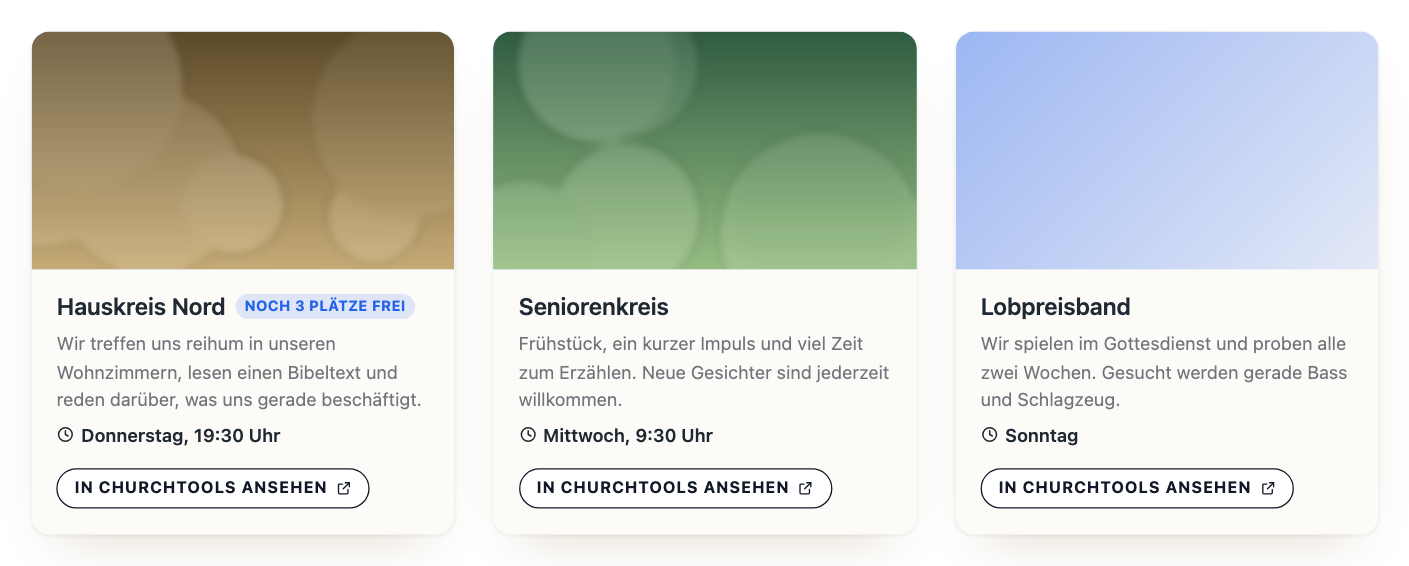
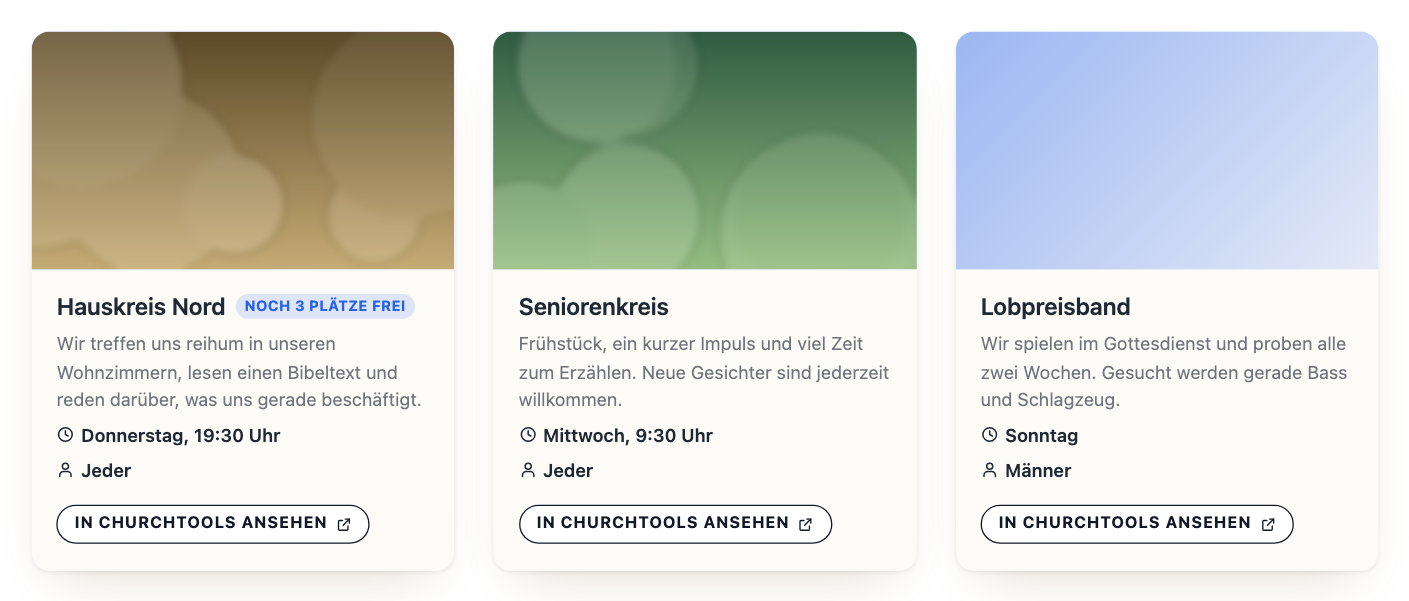
Gruppen: Zielgruppe als Angabezeile mit Personensymbol
information.targetGroup wurde nicht übernommen. Die Zielgruppe steht jetzt
wie die Treffzeit als eigene Zeile mit Symbol, direkt darunter, in Raster
und hervorgehobener Ansicht; ausblendbar mit dem Kalendernamen. Gruppen
ohne Zielgruppe in ChurchTools bekommen keine Zeile.

Doku, Hilfetext und Gruppen-Screenshots nachgezogen.

diff --git a/assets/css/frontend.css b/assets/css/frontend.css
@@ -1044,6 +1044,15 @@
     order: var(--ctp-order-location);
 }
 
+/*
+ * Zielgruppe einer Gruppenkachel: keine eigene Position im Design-Tab, sie
+ * haengt an der Uhrzeit. Gleiche Ordnungszahl, und im Markup steht sie danach -
+ * so bleibt sie direkt unter der Treffzeit, wohin diese auch gezogen wird.
+ */
+.ctp-events__meta-item--target-group {
+    order: var(--ctp-order-time);
+}
+
 @media (max-width: 480px) {
     .ctp-events__item {
         align-items: flex-start;

diff --git a/tests/Frontend/GroupListRendererTest.php b/tests/Frontend/GroupListRendererTest.php
@@ -75,10 +75,26 @@ final class GroupListRendererTest extends TestCase
 
     public function testHiddenElementsOfTheDesignTabApply(): void
     {
-        $group = GroupListRenderer::prepareGroups([$this->group(44, '')], [], ['time', 'excerpt'])[0];
+        $group = GroupListRenderer::prepareGroups([$this->group(44, '')], [], ['time', 'excerpt', 'calendar'])[0];
 
         $this->assertSame('', $group['schedule']);
         $this->assertSame('', $group['excerpt']);
+        $this->assertSame('', $group['target_group_label']);
+    }
+
+    /**
+     * Die Zielgruppe steht als Angabezeile unter der Treffzeit - auch
+     * „Jeder". Gruppen ohne Zielgruppe in ChurchTools und
+     * Gruppen aus einem aelteren Abgleich bekommen keine Zeile.
+     */
+    public function testTheTargetGroupIsShownWhereChurchToolsHasOne(): void
+    {
+        $older = $this->group(514, '');
+        unset($older['target_group']);
+
+        $prepared = GroupListRenderer::prepareGroups([$this->group(44, ''), $older], []);
+
+        $this->assertSame(['Jeder', ''], array_column($prepared, 'target_group_label'));
     }
 
     public function testRenderLinksEachCardToThePublicGroupAndEscapes(): void
@@ -100,6 +116,8 @@ final class GroupListRendererTest extends TestCase
         $this->assertStringContainsString('Wine &lt;b&gt;&amp;&lt;/b&gt; Dine', $html);
         $this->assertStringContainsString('Noch 3 Plätze frei', $html);
         $this->assertStringContainsString('Donnerstag, 19:30 Uhr', $html);
+        $this->assertMatchesRegularExpression('#meta-item--time">.*?Donnerstag, 19:30 Uhr\s*</span>\s*<span class="ctp-events__meta-item ctp-events__meta-item--target-group">\s*<svg [^>]*>.*?</svg>\s*Jeder\s*</span>#s', $html);
+        $this->assertStringNotContainsString('ctp-events__eyebrow', $html);
         $this->assertStringContainsString('--ctp-columns:6;', $html, 'Spalten wie bei den Terminen auf 2 bis 6 begrenzt.');
         $this->assertStringNotContainsString('ctp-events__media', $html);
     }
@@ -183,6 +201,7 @@ final class GroupListRendererTest extends TestCase
         $this->assertStringContainsString('ctp-groups__feature ', $html);
         $this->assertStringNotContainsString('--ctp-columns', $html);
         $this->assertStringContainsString('class="ctp-events__cta ctp-button"', $html);
+        $this->assertMatchesRegularExpression('#meta-item--target-group">\s*<svg [^>]*>.*?</svg>\s*Jeder\s*</span>#s', $html);
     }
 
     public function testAnUnknownLayoutFallsBackToTheGrid(): void
@@ -209,6 +228,7 @@ final class GroupListRendererTest extends TestCase
             'image_url' => $imageUrl,
             'weekday' => 'Donnerstag',
             'meeting_time' => '19:30 Uhr',
+            'target_group' => 'Jeder',
             'max_members' => null,
             'free_places' => null,
             'waitinglist' => false,

diff --git a/bin/demo-screenshots.php b/bin/demo-screenshots.php
@@ -174,14 +174,15 @@ $abschnitte = [
 /*
  * Die Gruppenliste bekommt ihre Felder so, wie GroupListRenderer::prepareGroups()
  * sie ans Template reicht - ausgedachte Gruppen, eine davon ohne Bild, damit
- * die Farbflaeche zu sehen ist, die dann an die Stelle des Bildes tritt.
+ * die Farbflaeche zu sehen ist, die dann an die Stelle des Bildes tritt. Die
+ * Zielgruppen sind Werte, die ChurchTools zur Auswahl anbietet.
  */
 $gruppen = [];
 foreach ([
-    ['Hauskreis Nord', 'Donnerstag, 19:30 Uhr', 'bild-fruehstueck.jpg', 'Noch 3 Plätze frei', 'Wir treffen uns reihum in unseren Wohnzimmern, lesen einen Bibeltext und reden darüber, was uns gerade beschäftigt.'],
-    ['Seniorenkreis', 'Mittwoch, 9:30 Uhr', 'bild-fest.jpg', '', 'Frühstück, ein kurzer Impuls und viel Zeit zum Erzählen. Neue Gesichter sind jederzeit willkommen.'],
-    ['Lobpreisband', 'Sonntag', '', '', 'Wir spielen im Gottesdienst und proben alle zwei Wochen. Gesucht werden gerade Bass und Schlagzeug.'],
-] as $i => [$name, $zeit, $bild, $plaetze, $text]) {
+    ['Hauskreis Nord', 'Jeder', 'Donnerstag, 19:30 Uhr', 'bild-fruehstueck.jpg', 'Noch 3 Plätze frei', 'Wir treffen uns reihum in unseren Wohnzimmern, lesen einen Bibeltext und reden darüber, was uns gerade beschäftigt.'],
+    ['Seniorenkreis', 'Jeder', 'Mittwoch, 9:30 Uhr', 'bild-fest.jpg', '', 'Frühstück, ein kurzer Impuls und viel Zeit zum Erzählen. Neue Gesichter sind jederzeit willkommen.'],
+    ['Lobpreisband', 'Männer', 'Sonntag', '', '', 'Wir spielen im Gottesdienst und proben alle zwei Wochen. Gesucht werden gerade Bass und Schlagzeug.'],
+] as $i => [$name, $zielgruppe, $zeit, $bild, $plaetze, $text]) {
     $gruppen[] = [
         'id' => $i + 1,
         'name' => $name,
@@ -190,6 +191,7 @@ foreach ([
         'image_srcset' => '',
         'show_media' => true,
         'schedule' => $zeit,
+        'target_group_label' => $zielgruppe,
         'places_label' => $plaetze,
         'excerpt' => $text,
         'description_html' => '<p>' . $text . '</p>',

diff --git a/includes/Frontend/templates/group-grid.php b/includes/Frontend/templates/group-grid.php
@@ -7,7 +7,8 @@
  * Dieselben Klassen wie event-grid.php, damit die Einstellungen des Design-Tabs
  * greifen; `ctp-groups` steht zusaetzlich daneben, fuer eigene Regeln eines
  * Themes. Die Zusatzfelder jeder Gruppe (image_src, show_media, schedule,
- * places_label, excerpt) rechnet GroupListRenderer::prepareGroups() vor.
+ * places_label, excerpt, target_group_label) rechnet
+ * GroupListRenderer::prepareGroups() vor.
  *
  * Die Kachel ist nicht klickbar; nach ChurchTools fuehrt der Button darunter
  * (partials/group-cta.php, siehe GroupListRenderer).
@@ -62,6 +63,13 @@ if (!defined('ABSPATH')) {
                                     <?php // phpcs:ignore WordPress.Security.EscapeOutput.OutputNotEscaped -- Icons:: returns fixed, hard-coded SVG markup with no request input (see Icons.php docblock). ?>
                                     <?php echo Icons::clock(); ?>
                                     <?php echo esc_html($group['schedule']); ?>
+                                </span>
+                            <?php endif; ?>
+                            <?php if ($group['target_group_label'] !== '') : ?>
+                                <span class="ctp-events__meta-item ctp-events__meta-item--target-group">
+                                    <?php // phpcs:ignore WordPress.Security.EscapeOutput.OutputNotEscaped -- see above. ?>
+                                    <?php echo Icons::person(); ?>
+                                    <?php echo esc_html($group['target_group_label']); ?>
                                 </span>
                             <?php endif; ?>
                             <?php if ($group['excerpt'] !== '') : ?>

diff --git a/tests/Groups/GroupSyncTest.php b/tests/Groups/GroupSyncTest.php
@@ -90,6 +90,7 @@ final class GroupSyncTest extends TestCase
             'image_url' => 'https://musterkirche.church.tools/images/5123/abc?w=1600&h=1600&fit=max',
             'weekday' => 'Mittwoch',
             'meeting_time' => '9:30',
+            'target_group' => 'Jeder',
             'max_members' => 60,
             'free_places' => 52,
             'waitinglist' => false,
@@ -175,6 +176,7 @@ final class GroupSyncTest extends TestCase
         $this->assertSame('', $group['weekday']);
         $this->assertSame('', $group['meeting_time']);
         $this->assertSame('', $group['note']);
+        $this->assertSame('', $group['target_group']);
     }
 
     /**
@@ -196,7 +198,7 @@ final class GroupSyncTest extends TestCase
         $group = GroupSync::normalizeGroup($raw, self::BASE);
 
         $this->assertSame(
-            ['id', 'name', 'note', 'image_url', 'weekday', 'meeting_time', 'max_members', 'free_places', 'waitinglist', 'url'],
+            ['id', 'name', 'note', 'image_url', 'weekday', 'meeting_time', 'target_group', 'max_members', 'free_places', 'waitinglist', 'url'],
             array_keys($group)
         );
         $this->assertStringNotContainsString('Erika', (string) wp_json_encode($group));
@@ -453,6 +455,7 @@ final class GroupSyncTest extends TestCase
             'meetingTime' => '9:30',
             'weekday' => ['id' => 3, 'name' => 'wednesday', 'nameTranslated' => 'Mittwoch', 'sortKey' => 2],
             'note' => 'Treff am Mittwoch',
+            'targetGroup' => ['id' => 1, 'name' => 'everyone', 'nameTranslated' => 'Jeder', 'sortKey' => 1],
             'groupPlaces' => [],
         ];
 

diff --git a/includes/Frontend/GroupListRenderer.php b/includes/Frontend/GroupListRenderer.php
@@ -26,7 +26,10 @@ use ChurchToolsPlugin\Settings;
  * Die Kacheln tragen dieselben Klassen wie die der Termine, damit Vorlage,
  * Farben, Ecken, Bildformat und Reihenfolge aus dem Design-Tab ohne eigene
  * Einstellungen greifen. Von den ausblendbaren Feldern gelten die, die es an
- * einer Gruppe gibt: Bild, Uhrzeit (Wochentag und Treffzeit) und Auszug.
+ * einer Gruppe gibt: Bild, Uhrzeit (Wochentag und Treffzeit), Auszug - und
+ * „Kalendername" fuer die Zielgruppe. Die steht als Angabezeile mit
+ * Personensymbol unter der Treffzeit; ausgeblendet wird sie mit dem
+ * Kalendernamen, weil beide dasselbe sagen: in welche Sparte etwas gehoert.
  */
 final class GroupListRenderer
 {
@@ -154,6 +157,11 @@ final class GroupListRenderer
                 ? CardImage::srcsetFor($attachmentId, CardImage::CARD_MAX_SRCSET_WIDTH, CardImage::CARD_REFERENCE_SIZE)
                 : '';
             $group['schedule'] = in_array('time', $hiddenElements, true) ? '' : self::schedule($group);
+            // Gruppen aus einem Abgleich vor dieser Aenderung tragen das Feld noch
+            // nicht; bis zum naechsten Lauf bleibt die Zeile dann leer.
+            $group['target_group_label'] = in_array('calendar', $hiddenElements, true)
+                ? ''
+                : trim((string) ($group['target_group'] ?? ''));
             $group['places_label'] = self::placesLabel($group);
             $group['excerpt'] = in_array('excerpt', $hiddenElements, true) || (string) ($group['note'] ?? '') === ''
                 ? ''

diff --git a/includes/Frontend/templates/group-featured.php b/includes/Frontend/templates/group-featured.php
@@ -58,6 +58,13 @@ if (!defined('ABSPATH')) {
                                 <?php echo esc_html($group['schedule']); ?>
                             </span>
                         <?php endif; ?>
+                        <?php if ($group['target_group_label'] !== '') : ?>
+                            <span class="ctp-events__meta-item ctp-events__meta-item--target-group">
+                                <?php // phpcs:ignore WordPress.Security.EscapeOutput.OutputNotEscaped -- see above. ?>
+                                <?php echo Icons::person(); ?>
+                                <?php echo esc_html($group['target_group_label']); ?>
+                            </span>
+                        <?php endif; ?>
                         <?php if ($group['description_html'] !== '') : ?>
                             <div class="ctp-groups__feature-text">
                                 <?php // phpcs:ignore WordPress.Security.EscapeOutput.OutputNotEscaped -- EventFormatter::descriptionHtml() runs the raw value through wp_kses() with its own allowlist before adding any markup of its own (see its docblock). ?>

diff --git a/includes/Frontend/Icons.php b/includes/Frontend/Icons.php
@@ -38,6 +38,19 @@ final class Icons
             . '<circle cx="12" cy="10" r="2.75"></circle></svg>';
     }
 
+    /**
+     * Kopf und Schultern - fuer die Zielgruppe einer Gruppe („Jeder",
+     * „Familien"). Eine Person statt einer Gruppe von Personen: Die Zeile sagt,
+     * *fuer wen* die Gruppe ist, nicht, wie viele schon dabei sind.
+     */
+    public static function person(): string
+    {
+        return '<svg class="ctp-events__icon" viewBox="0 0 24 24" fill="none" stroke="currentColor" '
+            . 'stroke-width="2" stroke-linecap="round" stroke-linejoin="round" aria-hidden="true" focusable="false">'
+            . '<circle cx="12" cy="7.5" r="4"></circle>'
+            . '<path d="M4.5 21v-1.5a5 5 0 0 1 5-5h5a5 5 0 0 1 5 5V21"></path></svg>';
+    }
+
     public static function search(): string
     {
         return '<svg class="ctp-events__icon" viewBox="0 0 24 24" fill="none" stroke="currentColor" '

diff --git a/includes/Groups/GroupSync.php b/includes/Groups/GroupSync.php
@@ -279,6 +279,13 @@ final class GroupSync
                 ? trim((string) ($information['weekday']['nameTranslated'] ?? ''))
                 : '',
             'meeting_time' => trim((string) ($information['meetingTime'] ?? '')),
+            // „Jeder" ist eine gewaehlte Zielgruppe wie jede andere, keine
+            // Vorgabe: An der Referenzinstanz tragen 7 von 17 Gruppen gar
+            // keine (`null`, gelesen 2026-09-15). Die Zeile bleibt dann leer,
+            // statt „Jeder" zu unterstellen.
+            'target_group' => is_array($information['targetGroup'] ?? null)
+                ? trim((string) ($information['targetGroup']['nameTranslated'] ?? ''))
+                : '',
             'max_members' => $maxMembers > 0 ? $maxMembers : null,
             'free_places' => $maxMembers > 0 ? max(0, $maxMembers - $taken) : null,
             'waitinglist' => !empty($group['allowWaitinglist']),

diff --git a/includes/Admin/GroupsTab.php b/includes/Admin/GroupsTab.php
@@ -129,7 +129,7 @@ final class GroupsTab
                 SettingsPage::renderActionBar(
                     'ctp-fetch-group-homepages',
                     __('Homepages von ChurchTools laden', 'churchtools-plugin'),
-                    __('Nutzt den API-Key aus „Einstellungen → Verbindung“. Übernommen werden nur Name, Beschreibung, Treffzeit, Plätze und Bild – keine Leiter und keine Angaben über Personen.', 'churchtools-plugin')
+                    __('Nutzt den API-Key aus „Einstellungen → Verbindung“. Übernommen werden nur Name, Beschreibung, Treffzeit, Zielgruppe, Plätze und Bild – keine Leiter und keine Angaben über Personen.', 'churchtools-plugin')
                 );
                 ?>
 

diff --git a/plan.md b/plan.md
@@ -4,7 +4,7 @@ WordPress-Plugin, das Kalender-Events aus der ChurchTools API synchronisiert, lo
 
 ## Rahmendaten
 
-- **Aktueller Stand (2026-09-15)**: Version **1.29.3** veröffentlicht, seit dem 2026-08-19 im produktiven Einsatz auf der Zielseite. Die letzten Releases: 1.29.3 Gruppenbilder in voller Auflösung (2026-09-15), 1.29.2 Buttons mit gemeinsamem Farb- und Zustandssystem und einem Schutz gegen Link-Regeln des Themes (2026-09-15), 1.29.1 Platzhinweis „10+ Plätze frei“ (2026-09-15), 1.27.0 Sicherheit und Datenschutz (2026-09-14), 1.28.0 einzelne Gruppen, hervorgehobene Ansicht, Button nach ChurchTools (2026-09-14), 1.28.1 und 1.28.2 Nachbesserungen nach dem Test im echten WPBakery auf der Live-Seite (Gruppenauswahl als eigener Feldtyp, Umschalter „Welche Gruppen?“, Button gegen Uncode abgesichert), 1.29.0 Ankündigung von 2.0.0 (2026-09-15). Damit läuft die **Übergangszeit bis 2.0.0** (etwa vier bis sechs Wochen, siehe „Weg zu 2.0.0“). Offen: GitHub-Einstellungen aus Phase 0 des Review-Plans (beim Konto), Aufteilen der Reiter von `SettingsPage` (5.1), Update der Live-Seite (dort lief am 2026-09-15 noch 1.26.0) und danach ein Blick auf das Panel „Vorbereitung auf 2.0.0“. DB-Schema `1.8.0`, `composer test` grün (649 Tests), Integrationstests 10.
+- **Aktueller Stand (2026-09-15)**: Version **1.29.4** veröffentlicht, seit dem 2026-08-19 im produktiven Einsatz auf der Zielseite. Die letzten Releases: 1.29.4 Zielgruppe an den Gruppenkacheln (2026-09-15), 1.29.3 Gruppenbilder in voller Auflösung (2026-09-15), 1.29.2 Buttons mit gemeinsamem Farb- und Zustandssystem und einem Schutz gegen Link-Regeln des Themes (2026-09-15), 1.29.1 Platzhinweis „10+ Plätze frei“ (2026-09-15), 1.27.0 Sicherheit und Datenschutz (2026-09-14), 1.28.0 einzelne Gruppen, hervorgehobene Ansicht, Button nach ChurchTools (2026-09-14), 1.28.1 und 1.28.2 Nachbesserungen nach dem Test im echten WPBakery auf der Live-Seite (Gruppenauswahl als eigener Feldtyp, Umschalter „Welche Gruppen?“, Button gegen Uncode abgesichert), 1.29.0 Ankündigung von 2.0.0 (2026-09-15). Damit läuft die **Übergangszeit bis 2.0.0** (etwa vier bis sechs Wochen, siehe „Weg zu 2.0.0“). Offen: GitHub-Einstellungen aus Phase 0 des Review-Plans (beim Konto), Aufteilen der Reiter von `SettingsPage` (5.1), Update der Live-Seite (dort lief am 2026-09-15 noch 1.26.0) und danach ein Blick auf das Panel „Vorbereitung auf 2.0.0“. DB-Schema `1.8.0`, `composer test` grün (649 Tests), Integrationstests 10.
 - **Lizenz**: GPL-2.0-or-later
 - **Ziel-Instanz für Tests**: die produktive ChurchTools-Instanz der Gemeinde. **Es gibt kein ChurchTools-Testsystem** (festgehalten 2026-09-01) – jeder Versuch, der neue Daten *in* ChurchTools braucht, findet in der produktiven Instanz statt und ist für die Gemeinde sichtbar. Umkehrbare Versuche (ein Textfeld setzen und wieder leeren) sind dadurch billig, nicht umkehrbare (eine Anmeldegruppe anlegen, eine Gruppe veröffentlichen) teuer. Das ist bei jedem Feature zu prüfen, das ChurchTools-seitig gepflegte Daten voraussetzt. Name hier bewusst nicht genannt – dieses Repo ist öffentlich (siehe „Verteilung" unten); wer die Instanz braucht, findet sie in den Einstellungen der lokalen Testumgebung
 - **PHP**: 8.1+, **WordPress**: 6.4+
@@ -891,6 +891,15 @@ Nutzerbefund: „Die Bilder der Gruppen sind sehr pixelig. Bekommen wir die übe
 - **Umgesetzt und als 1.29.3 veröffentlicht (2026-09-15)**, direkt auf `main` wie 1.29.1: `GroupSync::sizedImageUrl()` hängt `w=1600&h=1600&fit=max` an (Konstante `IMAGE_QUERY`). 1600, weil WordPress höchstens `large` (1024) erzeugt und die Kachel-`srcset` bei 800 endet. Weil sich die Quelladresse ändert, holt der nächste Gruppen-Abgleich jedes Bild einmal neu und löscht das alte Vorschaubild – kein Migrationscode nötig.
 - **Nachgewiesen in der Testumgebung**: echter Abgleich gegen die Instanz, 15 Bilder neu (z. B. 1600×1067, Hochformat 1067×1600, kleine Originale bleiben bei 640), alte Anhänge gelöscht; zweiter Lauf lässt alles stehen. Auf der Gruppenseite bietet die `srcset` jetzt 300–768w, bei doppelter Pixeldichte wird 768w geladen.
 - *Nach dem Update auf der Live-Seite zu prüfen*: „Gruppen jetzt synchronisieren“, dann Seiten-Cache leeren; die Bilder sollten dort als WebP ankommen (GD mit WebP), lokal fehlt die Unterstützung und sie bleiben JPEG. Mit im Release: die gekürzte Beschreibung und Installation der readme.txt.
+
+### Zielgruppe an den Gruppenkacheln (2026-09-15)
+
+Nutzerbefund: „Die Zielgruppe, beispielsweise Jeder, wird nicht auf den Kacheln gezeigt.“ Nachgefragt: „analog der Tageszeit – ein Personenicon und Jeder bzw. andere Optionen nebendran.“
+
+- **Ursache**: `normalizeGroup()` übernahm `information.targetGroup` nicht.
+- **Gebaut**: Feld `target_group` (`nameTranslated`), in `prepareGroups()` als `target_group_label`; Angabezeile `ctp-events__meta-item--target-group` mit `Icons::person()` direkt hinter der Treffzeit, in Raster und hervorgehobener Ansicht. Keine eigene Position im Design-Tab: Die Zeile trägt `order: var(--ctp-order-time)` und folgt der Uhrzeit. Ausgeblendet wird sie mit „Kalendername“. Ein erster Entwurf als Überschrift über dem Namen (wie der Kalender bei Terminen) wurde auf Wunsch verworfen.
+- **Datenlage**: 7 von 17 Gruppen der Referenzinstanz haben keine Zielgruppe (`null`). Sie bekommen keine Zeile; „Jeder“ wird nicht unterstellt. Wer die Zeile überall will, trägt die Zielgruppe in ChurchTools nach.
+- **Veröffentlicht als 1.29.4 (2026-09-15)**, direkt auf `main`. *Nach dem Update auf der Live-Seite*: „Gruppen jetzt synchronisieren“ (gespeicherte Gruppen tragen das Feld noch nicht), dann Seiten-Cache leeren (neue CSS-Regel).
 
 ### Offene Kleinigkeiten im Frontend
 

diff --git a/docs/GRUPPEN.md b/docs/GRUPPEN.md
@@ -2,7 +2,7 @@
 
 Zurück zur [Übersicht](../README.md).
 
-Als Ersatz für den iframe einer Gruppen-Homepage: dieselben Gruppen, aber in der Optik des Plugins – mit Treffzeit, Auszug und, wo die Gruppe eine Höchstzahl hat, den freien Plätzen. Der Button „In ChurchTools ansehen“ führt zur Gruppe in ChurchTools, wo man sich anmeldet.
+Als Ersatz für den iframe einer Gruppen-Homepage: dieselben Gruppen, aber in der Optik des Plugins – mit Zielgruppe, Treffzeit, Auszug und, wo die Gruppe eine Höchstzahl hat, den freien Plätzen. Der Button „In ChurchTools ansehen“ führt zur Gruppe in ChurchTools, wo man sich anmeldet.
 
 Voraussetzung ist eine angehakte Homepage unter *ChurchTools → Gruppen → Homepages*, siehe [Einrichtung, Schritt 7](EINRICHTUNG.md#7-gruppen-zeigen-optional).
 
@@ -33,8 +33,8 @@ Unter *Gruppen → Homepages* steht neben jeder angehakten Homepage der passende
 
 ## Gut zu wissen
 
-- **ChurchTools entscheidet, was erscheint.** Es erscheinen die Gruppen, die die Homepage in ChurchTools öffentlich zeigt, Bilder nur, wo sie Gruppenbilder zeigt. Übernommen werden Name, Beschreibung, Treffzeit, Plätze und Bild – keine Leiter und nichts über Personen, auch wenn ChurchTools dem API-Key mehr mitschickt.
+- **ChurchTools entscheidet, was erscheint.** Es erscheinen die Gruppen, die die Homepage in ChurchTools öffentlich zeigt, Bilder nur, wo sie Gruppenbilder zeigt. Übernommen werden Name, Beschreibung, Treffzeit, Zielgruppe, Plätze und Bild – keine Leiter und nichts über Personen, auch wenn ChurchTools dem API-Key mehr mitschickt.
 - **Die freien Plätze sind so alt wie der letzte Abgleich.** Die Anmeldung in ChurchTools zeigt immer den echten Stand. Wer es genauer braucht, stellt das *Sync-Intervall* kürzer.
-- **Aussehen wie die Termine:** Vorlage, Farben, Ecken, Bildformat und Reihenfolge aus *Einstellungen → Design* gelten auch hier. Hat eine Gruppe kein Bild, steht dort eine Farbfläche.
+- **Aussehen wie die Termine:** Vorlage, Farben, Ecken, Bildformat und Reihenfolge aus *Einstellungen → Design* gelten auch hier. Hat eine Gruppe kein Bild, steht dort eine Farbfläche. Die Zielgruppe steht mit Personensymbol unter der Treffzeit; wer unter *Kachel* den Kalendernamen ausblendet, blendet auch sie aus.
 - **Absprung mit Ansage:** Die Kachel selbst ist nicht klickbar, nur der Button. Bei den Terminen führt ein Klick auf die Kachel zu einer Ansicht auf der eigenen Website; bei Gruppen hätte dieselbe Geste unangekündigt in ein anderes System geführt.
 - **Bewusst eine Liste, kein Suchwerkzeug:** keine Filterleiste, keine eigene Gruppenseite. Den vollen Text zeigt die hervorgehobene Ansicht, die Anmeldung liegt in ChurchTools.
